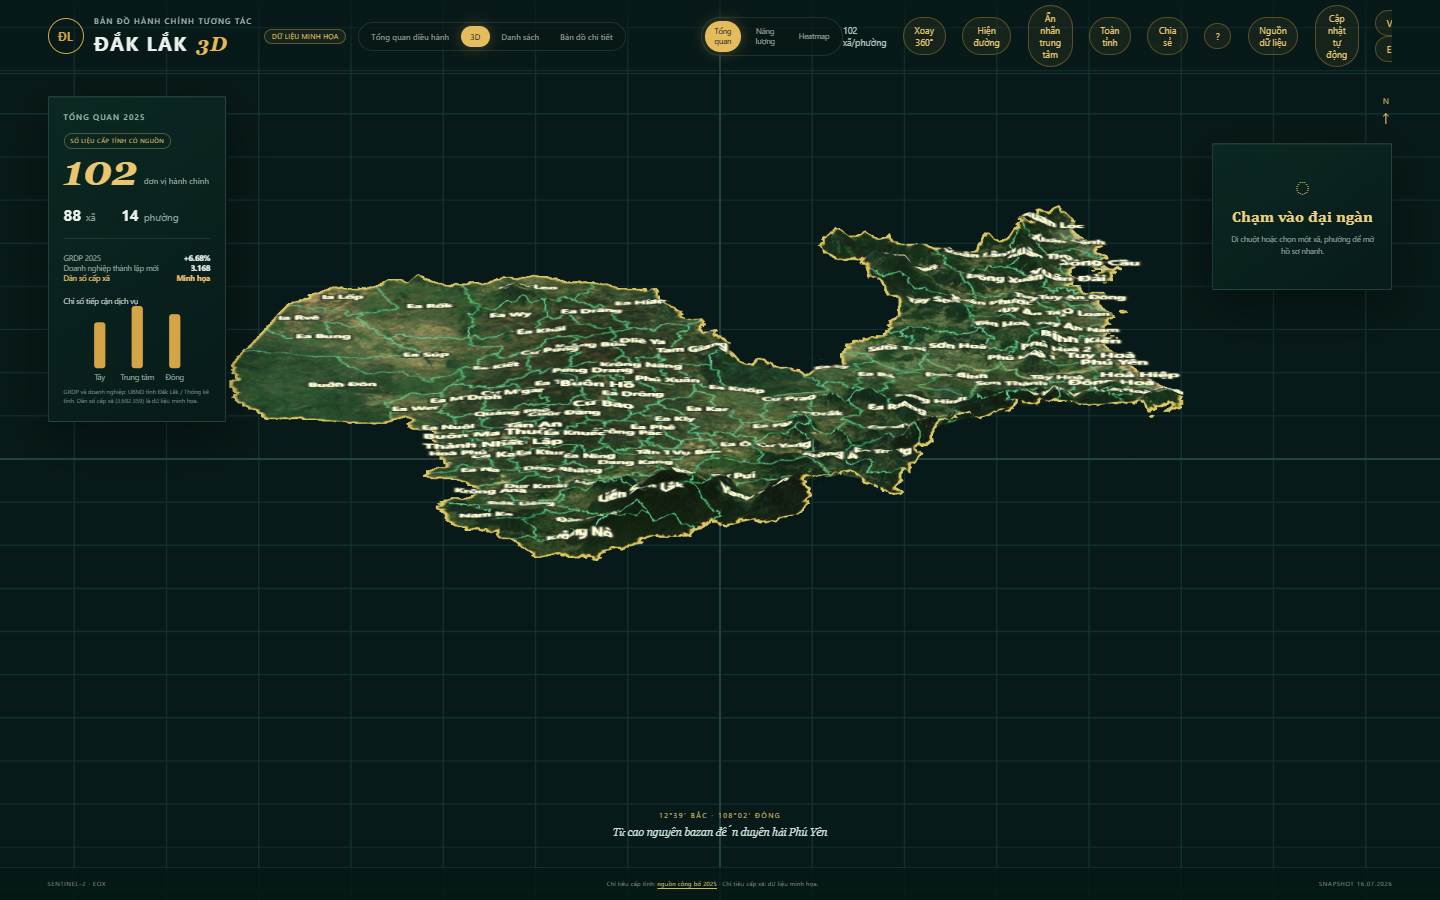
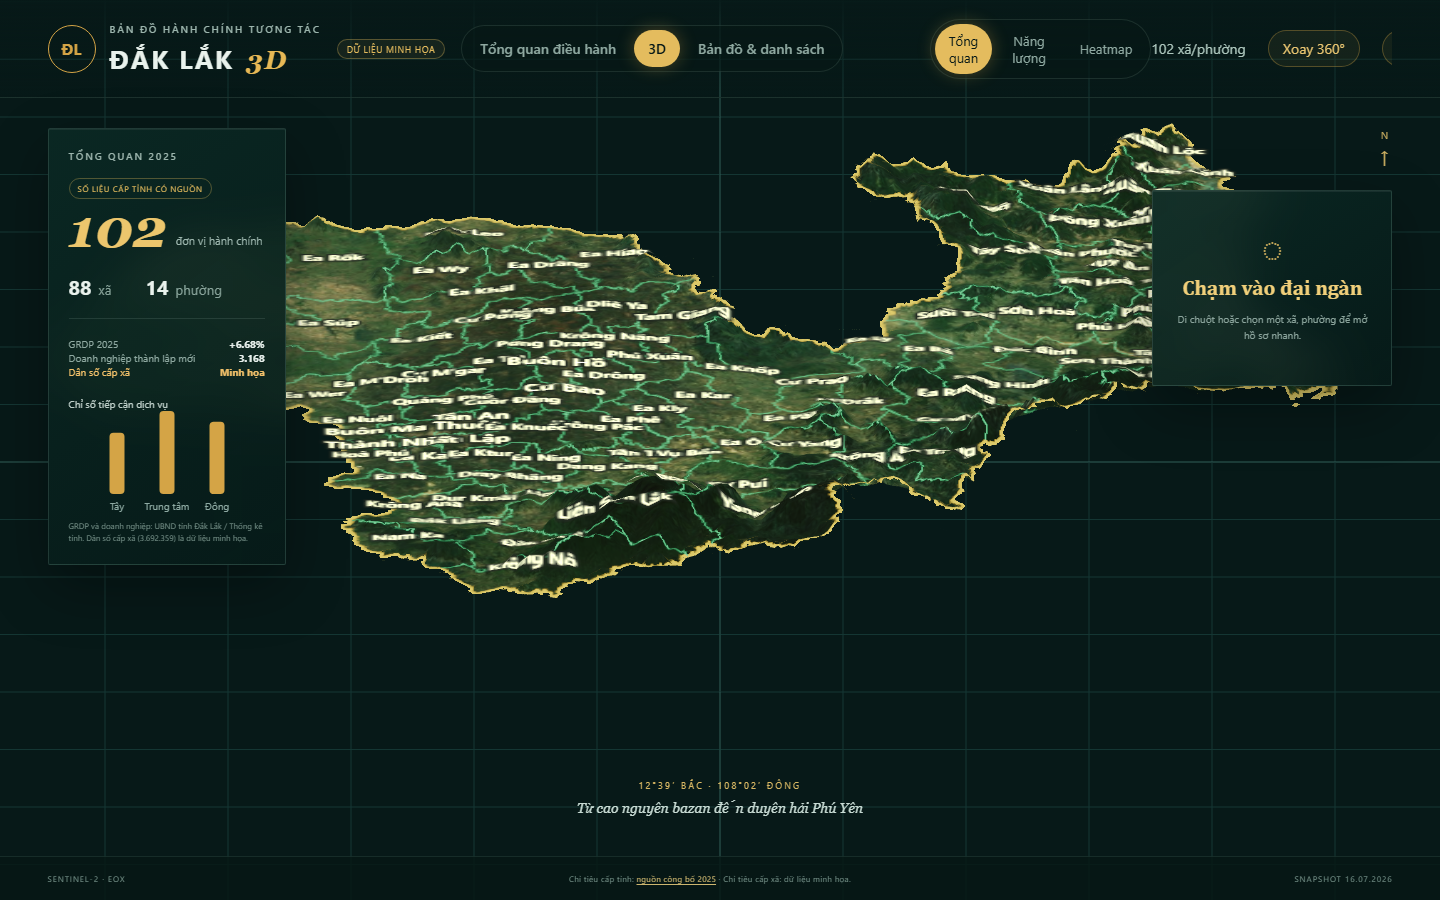
docs(readme): refresh gallery screenshots + note accessibility pass and 102-label engine (#137)
- Regenerate the 5 README gallery images against the current production
  build: enlarged typography, the A-/A/A+ font-scale control in the header,
  "… tỷ ₫" KPI amounts, and the detail map with all 102 ward labels
  displaced-not-hidden.
- README.md / README.en.md: add an accessibility bullet/section (font-scale
  control, text-not-colour status, overlap/overflow regression tests) and
  describe the never-hide label behaviour on the detail map.

diff --git a/README.md b/README.md
@@ -22,10 +22,11 @@ Dashboard bản đồ 3D thể hiện 102 xã/phường của tỉnh Đắk Lắ
 - **Tổng quan điều hành** — trang mặc định, tổng hợp KPI danh mục dự án, cảnh báo, dự án cần chú ý.
 - **Bản đồ 3D** — địa hình tỉnh dựng từ dữ liệu vệ tinh thật (SRTM + Sentinel-2), xoay/phóng được, click vào từng xã để xem hồ sơ nhanh.
 - **Danh sách** — phiên bản 2D dễ dùng, phù hợp máy yếu, điều hướng bàn phím và trình đọc màn hình.
-- **Bản đồ chi tiết** — bản đồ MapLibre, xem lớp đường giao thông, đo khoảng cách.
+- **Bản đồ chi tiết** — bản đồ MapLibre, xem lớp đường giao thông, đo khoảng cách. Tên cả 102 xã/phường **luôn hiển thị đầy đủ, không viết tắt**; khi nhãn chồng nhau thì được dịch ra và nối về vị trí thật bằng một đường dẫn mảnh thay vì bị ẩn đi.
 - **Khám phá** _(nền địa hình minh họa, dữ liệu điểm đến là thật)_ — đi bộ hoặc bay tự do trên địa hình tỉnh (bám địa hình thật qua CPU terrain sampler), xem 4 điểm đến du lịch đã xác minh nguồn (Hồ Lắk, Yok Đôn, Đray Nur, Buôn Đôn), teleport nhanh, và 3 tuyến tham quan có hướng dẫn. Xem [docs/world-exploration.md](docs/world-exploration.md).
 - **Danh mục dự án** và **Chi tiết dự án** — xem đầy đủ ngân sách, tiến độ, gói thầu, vướng mắc của từng dự án.
 - Giao diện có cả **tiếng Việt và tiếng Anh**, chuyển đổi ngay không cần tải lại trang.
+- **Thiết kế ưu tiên dễ đọc** — cỡ chữ lớn cho người lớn tuổi/thị lực kém, nút chỉnh cỡ chữ **A− / A / A+** ngay trên thanh tiêu đề (lựa chọn được ghi nhớ giữa các lần truy cập), trạng thái luôn kèm nhãn chữ chứ không chỉ dựa vào màu. Xem [docs/accessibility.md](docs/accessibility.md).
 
 ## Chạy thử trên máy
 
@@ -46,7 +47,7 @@ Muốn build thử bản production hoặc chạy kiểm tra chất lượng cod
 </p>
 <p align="center">
   <img src="docs/images/readme-gallery/executive-overview-mobile.png" alt="Tổng quan điều hành trên điện thoại, các thẻ KPI xếp thành lưới không tràn ngang" width="49%">
-  <img src="docs/images/readme-gallery/dashboard-2d-administrative-labels.png" alt="Bản đồ 2D hành chính với nhãn xã/phường tiếng Việt có dấu" width="49%">
+  <img src="docs/images/readme-gallery/dashboard-2d-administrative-labels.png" alt="Bản đồ chi tiết hiển thị đầy đủ tên 102 xã/phường, nhãn chồng nhau được dịch ra thay vì ẩn đi" width="49%">
 </p>
 
 ## Giấy phép

diff --git a/README.en.md b/README.en.md
@@ -12,7 +12,9 @@ displacement terrain surface with Sentinel-2 imagery and polygon hit-testing for
 selection. Four experiences: **Executive Overview** (default landing — portfolio KPIs, projects
 needing attention, alerts, data health), the 3D overview, an accessible 2D list, and a detail map
 (`?view=map`) using **MapLibre GL JS + self-hosted PMTiles** — no Google Maps Platform dependency,
-no API key or billing required.
+no API key or billing required. On the detail map all 102 commune/ward names stay visible at every
+zoom — never hidden, never abbreviated; overlapping labels are displaced and tied back to their
+true point with a thin leader line instead of being dropped.
 
 Beyond those four, an **"Explore"** button (`?view=world`) opens an early preview — a fly-over of
 the province terrain, the initial foundation for a "Tourism Digital Twin" direction. This is a
@@ -36,6 +38,15 @@ operational figures.
 > in the source code), not real operational or official government figures — it is not for actual
 > management decisions, approvals, or reporting. The map is a reference visualization, not a legal
 > record for land, surveying, planning, or administrative boundary purposes.
+
+## Accessibility
+
+The design targets older and low-vision readers: enlarged base type across the header, KPI grid and
+overview copy, an **A− / A / A+** font-scale control in the header (persisted across visits via
+`localStorage`), status conveyed with text labels and not colour alone, and large VND amounts shown
+as "… tỷ ₫" with the exact figure kept in the tooltip and screen-reader label. Automated Playwright
+tests assert zero card/panel/button overlap and no horizontal overflow across six viewports
+(320–1920px). See [docs/accessibility.md](docs/accessibility.md).
 
 ## Language / Internationalization
 
